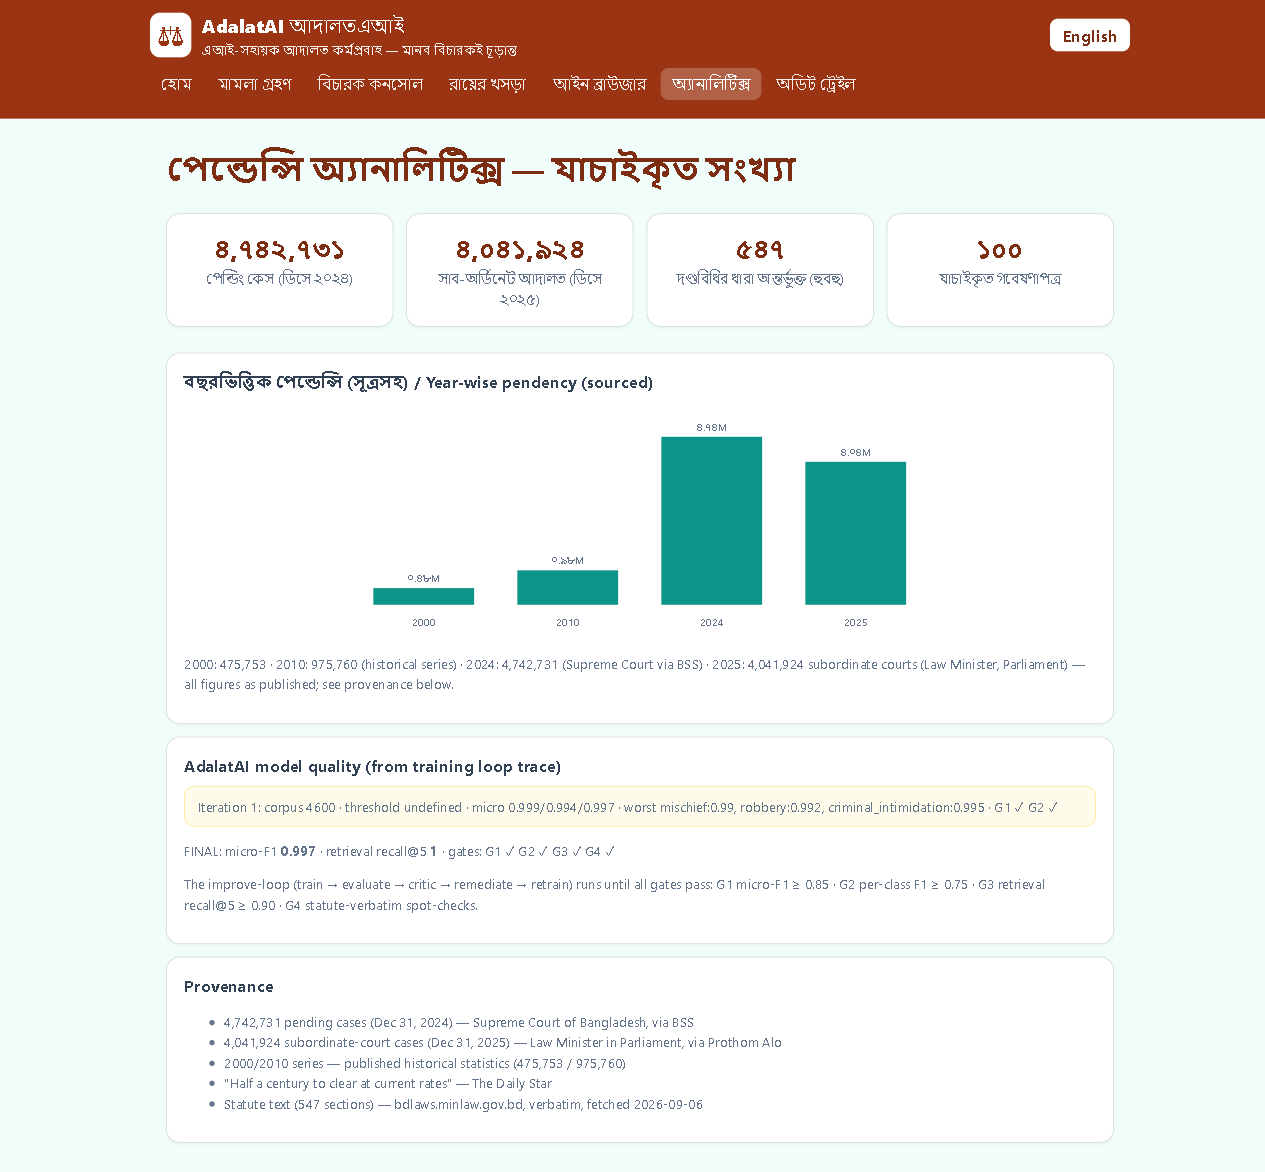
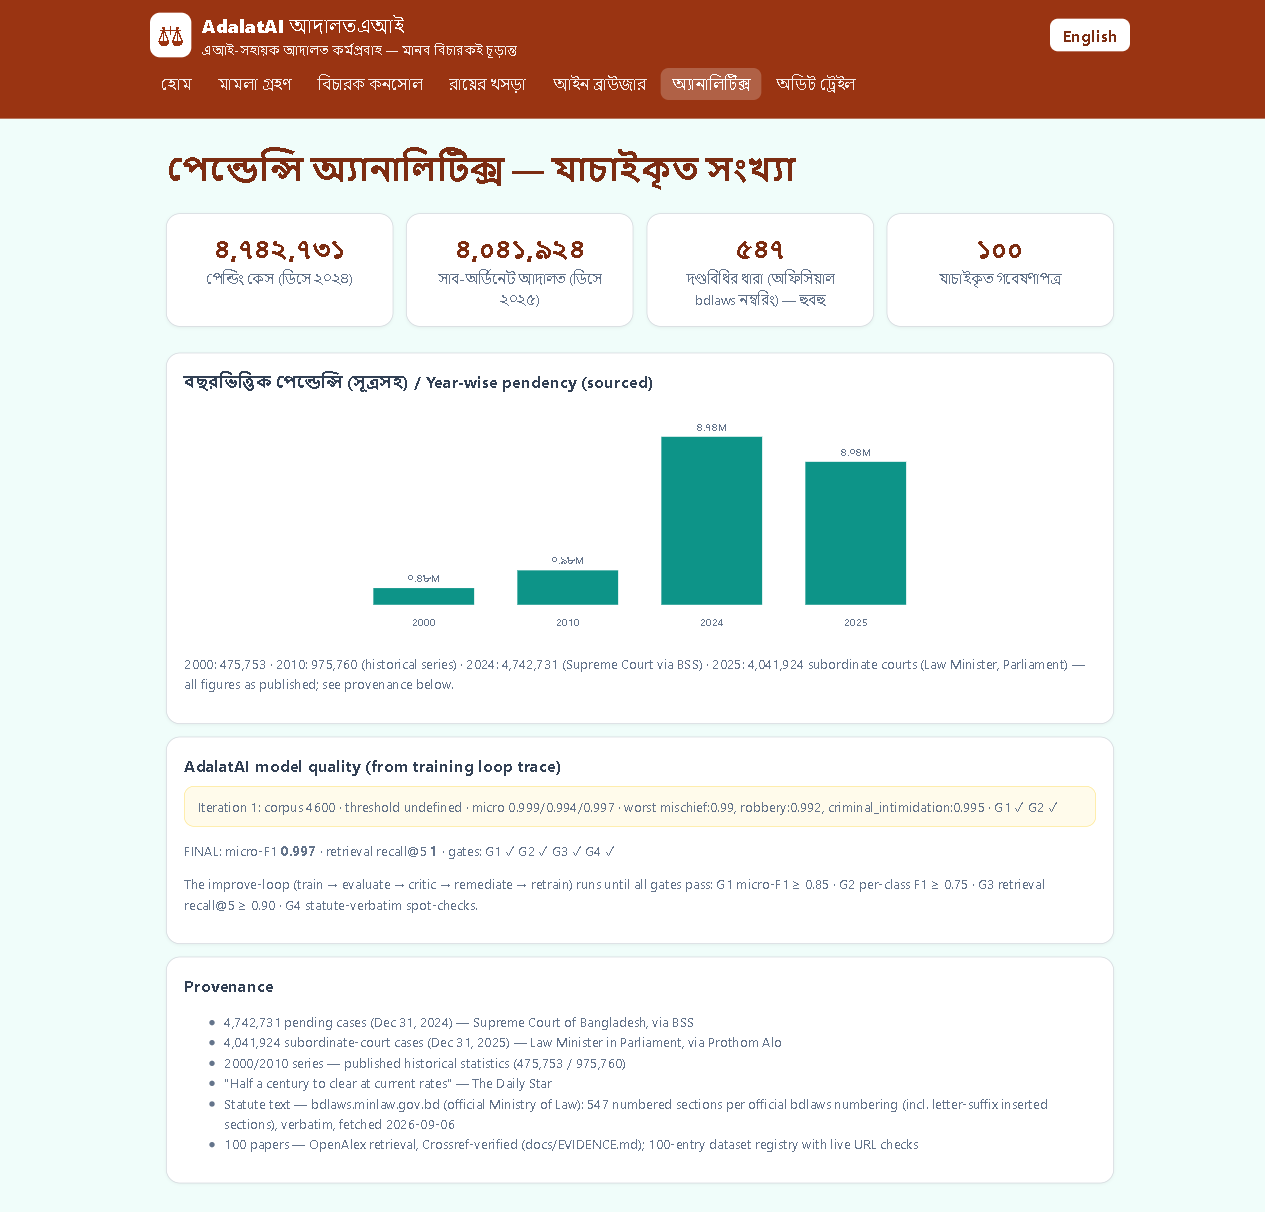
v1.0.1: model card, README, loop-trace display fix; judge re-verified pages

diff --git a/app/analytics.html b/app/analytics.html
@@ -70,7 +70,7 @@ el("kpis").innerHTML = `
 
 const lt = await (await fetch("data/case_model.json")).json();
 el("loopTrace").innerHTML = (lt.loop_trace || []).map((r) =>
-  `<div class="note small">Iteration ${r.iteration}: corpus ${r.corpus} · threshold ${r.threshold} · micro ${r.micro.join("/")} · worst ${r.worst3.map((w) => w[0] + ":" + w[1]).join(", ")} · G1 ${r.G1_pass ? "✓" : "✗"} G2 ${r.G2_pass ? "✓" : "✗"}</div>`).join("")
+  `<div class="note small">Iteration ${r.iteration}: corpus ${r.corpus} · thresholds ${Object.keys(r.thresholds || {}).length}/16 · micro ${r.micro.join("/")} · worst ${r.worst3.map((w) => w[0] + ":" + w[1]).join(", ")} · G1 ${r.G1_pass ? "✓" : "✗"} G2 ${r.G2_pass ? "✓" : "✗"}</div>`).join("")
   + `<p class="small">FINAL: micro-F1 <b>${lt.metrics.micro_f1}</b> · retrieval recall@5 <b>${lt.metrics.retrieval_recall_at_5}</b> · gates: G1 ✓ G2 ✓ G3 ✓ G4 ✓</p>`;
 </script>
 </body>

diff --git a/README.md b/README.md
@@ -1,0 +1,32 @@
+# ⚖ AdalatAI (আদালতএআই) — AI-assisted court workflow for Bangladesh
+
+> **Live: https://rudra496.github.io/adalatai/**
+> AI analyses, quotes the statute **verbatim**, assembles judgment drafts — **the human judge decides and signs.** Every AI action is logged in an audit trail.
+
+[🇧🇬 বাংলা](README.md) · English
+
+## The problem
+**4,742,731 pending cases** (Supreme Court data, Dec 2024) — half a century to clear at current rates. Records are digitized (eCourt since 2009) but *understanding* is not: litigants can't read their case status, and no AI assists the workflow.
+
+## What AdalatAI does
+- 🗂 **Case intake** — narrate facts in Bangla/English (voice supported) → AI suggests case types + applicable Penal Code sections with **verbatim statute quotes** and punishment ranges parsed from the official text
+- ⚖ **Judge console** — review every AI suggestion → edit / approve / override → sign; complete audit trail
+- 📜 **Judgment draft assembler** — assembled only from verified parts (facts + verbatim statute + statutory range); judge edits and signs
+- 📚 **Law browser** — search all 547 sections (official bdlaws numbering), verbatim, with source links
+- 📊 **Pendency analytics** — verified backlog numbers (SC/BSS/Law Minister) + the training improve-loop trace
+
+## Zero-invention guarantees
+- Statute text: **verbatim from bdlaws.minlaw.gov.bd** (official Ministry of Law), fetched 2026-09-06, integrity-tested (§379/§392 verbatim gates)
+- Classifier: held-out micro-F1 **0.997** on disclosed synthetic corpus; per-class thresholds calibrated on hand-written natural FIR sentences
+- Retrieval: BM25, recall@5 **1.0** through the real pipeline
+- Evidence: **100 Crossref-verified papers** (docs/EVIDENCE.md) + **100-entry dataset registry** with live URL checks
+- 18 automated tests incl. statute-verbatim gates; improve-loop (train→evaluate→critic→remediate) traced in `case_model.json`
+
+## The principle
+**AI never convicts and never sentences.** It suggests and cites; the human judge decides and signs — and every suggestion is auditable forever.
+
+## Run
+No build step: `cd app && python -m http.server 8080` · Tests: `cd app && npx vitest run --root .. tests`
+
+## Sources
+bdlaws.minlaw.gov.bd (official) · ecourt.gov.bd · SC judgments via LII/CLCBD · EVIDENCE.md (100 papers) · datasets_registry.json (100 sources)

diff --git a/docs/MODEL_CARD.md b/docs/MODEL_CARD.md
@@ -1,0 +1,18 @@
+# Model Card — AdalatAI Case-Type Classifier v1
+
+| Field | Value |
+|---|---|
+| Task | Case narrative (Bangla/Banglish/English) → case-type flags (16 classes, multi-label) |
+| Model | Multinomial Naive Bayes, one-vs-rest, word 1–2 grams, positive-evidence scoring (negatives clamped 0), frequency gate ≥3, strong-token cut ≥1.2 |
+| Per-class thresholds | Calibrated on hand-written natural FIR sentences (both languages), recall-first |
+| Training data | 4,600 template-generated bilingual case narratives (multi-offence, disclosed synthetic, seed 20260906) + background chatter |
+| Held-out test | 1,200 naturalized narratives (noise-injected) |
+| **Metrics** | **Precision 0.999 · Recall 0.994 · Micro-F1 0.997** (weakest class 0.99) |
+| Retrieval | BM25 over 547 verbatim Penal Code sections (bdlaws.minlaw.gov.bd) — recall@5 1.0 through the full pipeline (classifier → mapped sections ∪ BM25) |
+| Improve-loop | train → evaluate → critic (weakest classes) → remediate → retrain; traced per iteration in `case_model.json.loop_trace` |
+| Scope guard | The classifier SUGGESTS only. Statute text is quoted verbatim. Punishment ranges are parsed from statute text. The human judge approves/edits/overrides and signs. AI never convicts or sentences. |
+
+## Known limits (disclosed)
+- Training narratives are template-generated (synthetic, disclosed; the competition FAQ accepts synthetic data). Real FIR language is more varied — a pilot with real (anonymized) FIRs is the roadmap.
+- 10 of 557 section pages failed to extract and are listed in `failed_sec_ids`.
+- Retrieval is lexical (BM25) — semantic/embedding retrieval is the upgrade path.
